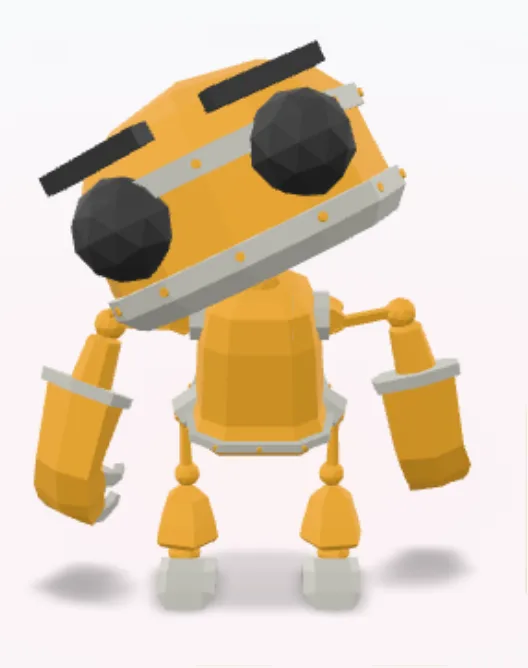
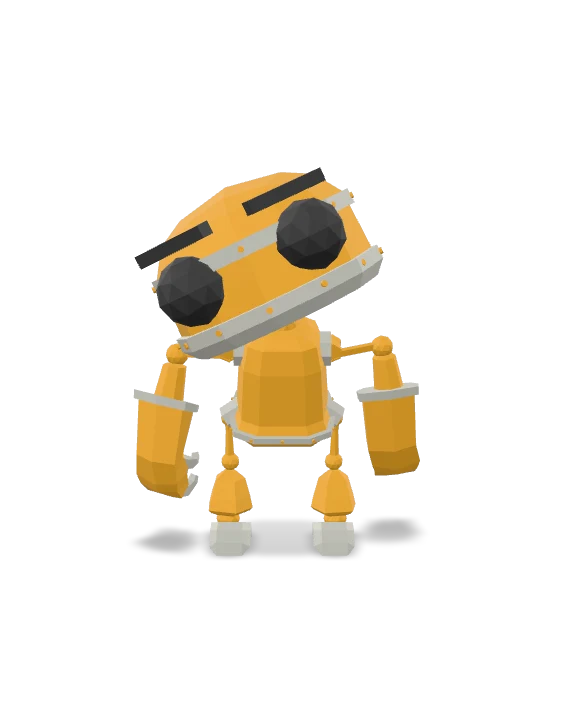
3D-модель: «Масштаб» в свойствах — отодвинуть камеру, чтобы движение не уходило за рамку
- Поле `zoom` у модели (0,3–3, как «Масштаб» у картинки): 1 — кадр, подобранный библиотекой, 0,8 — камера
  на четверть дальше; умножается на расстояние из ракурса. При показе модель по-прежнему крутят и приближают
- Без вращения мышью предел камеры — сам исходный вид: иначе model-viewer не пустил бы её дальше подобранного
- Расчёт камеры — чистая функция (model-orbit.ts) с unit-тестом
- «Свойства»: «Масштаб» модели — среди её полей; в свёрнутый «Кадр картинки» уходят только блоки с «Видимой частью»
- memes: три робота с масштабом 0,62 — «Танец» и взмах руки целиком в рамке, все одного размера;
  заставки перерисованы в новом кадре на прозрачном фоне
- README, COMPONENTS.md, справка формата

Claude-Session: https://claude.ai/code/session_01GftsZaKVp4igw2ytT8Njke

diff --git a/src/components/media/model.ts b/src/components/media/model.ts
@@ -3,6 +3,7 @@ import { esc, styleAttr, t } from '../../engine/html';
 import { ea } from '../../engine/marks';
 import type { Block } from '../../types';
 import { icon } from '../icons';
+import { modelCamera } from './model-orbit';
 import './media.css';
 
 interface ModelProps extends Block {
@@ -18,6 +19,8 @@ interface ModelProps extends Block {
   exposure?: number;
   /** Начальный ракурс: поворот и наклон камеры, например "-30deg 70deg" (как camera-orbit у model-viewer) */
   orbit?: string;
+  /** Масштаб в рамке, 0.3–3 (по умолчанию 1): меньше — камера дальше, модель мельче, движения не уходят за рамку */
+  zoom?: number;
   /** Анимация из файла модели, например Dance (true — первая по списку); играет по кругу */
   animation?: string | boolean;
   caption?: string;
@@ -80,7 +83,8 @@ defineBlock<ModelProps>('model', {
     const key = `${ctx.slide.dataset.index ?? ''}:${el.closest('[data-block]')?.getAttribute('data-block') ?? ''}`;
     let mv: HTMLElement | null = null;
     let timer = 0;
-    const orbit0 = typeof p.orbit === 'string' && /^-?\d+(\.\d+)?deg\s+-?\d+(\.\d+)?deg(\s+(auto|\d+(\.\d+)?%))?$/.test(p.orbit.trim()) ? p.orbit.trim() : 'auto auto auto';
+    // Ракурс и масштаб в рамке: расстояние — % от подобранного библиотекой (масштаб 0,8 — на четверть дальше)
+    const { orbit: orbit0, dist } = modelCamera(p.orbit, p.zoom);
     // Кнопка «Исходный вид»: появляется, когда модель повернули или приблизили
     let home: HTMLButtonElement | null = null;
     let flip = false;
@@ -125,16 +129,15 @@ defineBlock<ModelProps>('model', {
         const controls = p.controls !== false && !editing();
         if (controls) m.setAttribute('camera-controls', '');
         // Приблизить и отдалить — колесом или щипком. Без предела model-viewer не отпускает камеру
-        // дальше исходного вида: разрешаем примерно в 2,5 раза дальше (и дальше заданного в orbit)
-        if (!controls) m.setAttribute('disable-zoom', '');
-        else {
-          const r = Number(/(\d+(?:\.\d+)?)%$/.exec(orbit0)?.[1]) || 100;
-          m.setAttribute('max-camera-orbit', `auto auto ${Math.round(Math.max(250, r * 1.5))}%`);
-        }
+        // дальше исходного вида: разрешаем примерно в 2,5 раза дальше (и дальше заданного ракурсом и масштабом).
+        // Без вращения мышью предел — сам исходный вид: иначе камеру не пустило бы дальше подобранного
+        if (!controls) {
+          m.setAttribute('disable-zoom', '');
+          if (dist > 100) m.setAttribute('max-camera-orbit', `auto auto ${dist}%`);
+        } else m.setAttribute('max-camera-orbit', `auto auto ${Math.round(Math.max(250, dist * 1.5))}%`);
         m.setAttribute('interaction-prompt', 'none');
         m.setAttribute('shadow-intensity', '0.8');
         m.setAttribute('environment-image', 'neutral');
-        // Ракурс: только углы в градусах (и необязательное расстояние) — без произвольных строк
         if (orbit0 !== 'auto auto auto') m.setAttribute('camera-orbit', orbit0);
         const ex = Number(p.exposure);
         if (ex >= 0.2 && ex <= 3) m.setAttribute('exposure', String(ex));

diff --git a/tests/unit/model-camera.spec.ts b/tests/unit/model-camera.spec.ts
@@ -1,0 +1,26 @@
+// 3D-модель: начальная камера из ракурса и масштаба в рамке («Свойства» → «Масштаб»)
+import { expect, test } from '@playwright/test';
+import { modelCamera } from '../../src/components/media/model-orbit';
+
+test('без ракурса и масштаба — камера, подобранная библиотекой', () => {
+  expect(modelCamera(undefined, undefined)).toEqual({ orbit: 'auto auto auto', dist: 100 });
+  expect(modelCamera('-12deg 80deg', 1)).toEqual({ orbit: '-12deg 80deg auto', dist: 100 });
+});
+
+test('масштаб меньше 1 отодвигает камеру: 0,8 — на четверть дальше, 0,5 — вдвое', () => {
+  expect(modelCamera('-12deg 80deg', 0.8)).toEqual({ orbit: '-12deg 80deg 125%', dist: 125 });
+  expect(modelCamera(undefined, 0.5)).toEqual({ orbit: 'auto auto 200%', dist: 200 });
+  // Больше 1 — ближе
+  expect(modelCamera('0deg 75deg', 2).dist).toBe(50);
+});
+
+test('масштаб умножается на расстояние из ракурса', () => {
+  expect(modelCamera('10deg 70deg 150%', 0.6)).toEqual({ orbit: '10deg 70deg 250%', dist: 250 });
+});
+
+test('непонятный ракурс и масштаб вне 0,3–3 не применяются', () => {
+  expect(modelCamera('0deg 70deg; script', 0.8)).toEqual({ orbit: 'auto auto 125%', dist: 125 });
+  expect(modelCamera('-12deg 80deg', 0.1).dist).toBe(100);
+  expect(modelCamera('-12deg 80deg', 'abc').dist).toBe(100);
+  expect(modelCamera('-12deg 80deg', 9).dist).toBe(100);
+});

diff --git a/src/components/media/model-orbit.ts b/src/components/media/model-orbit.ts
@@ -1,0 +1,22 @@
+/**
+ * Начальная камера 3D-модели из данных: ракурс (`orbit`: поворот и наклон в градусах, третьим — расстояние в %)
+ * и масштаб в рамке (`zoom`, как у картинки: 1 — как есть, 0,8 — модель дальше и мельче). Отдельно от блока —
+ * чистая функция, без библиотеки 3D: её проверяют unit-тесты
+ */
+export interface ModelCamera {
+  /** Значение camera-orbit у model-viewer: «auto» там, где ничего не задано */
+  orbit: string;
+  /** Расстояние камеры, % от подобранного библиотекой (100 — как подобрано) */
+  dist: number;
+}
+
+const ORBIT = /^-?\d+(\.\d+)?deg\s+-?\d+(\.\d+)?deg(\s+(auto|\d+(\.\d+)?%))?$/;
+
+export function modelCamera(orbit: unknown, zoom: unknown): ModelCamera {
+  // Только углы в градусах и расстояние в процентах — без произвольных строк
+  const parts = typeof orbit === 'string' && ORBIT.test(orbit.trim()) ? orbit.trim().split(/\s+/) : [];
+  const z = Number(zoom);
+  const base = Number(/^(\d+(?:\.\d+)?)%$/.exec(parts[2] ?? '')?.[1]) || 100;
+  const dist = Math.round(base / (z >= 0.3 && z <= 3 ? z : 1));
+  return { orbit: `${parts[0] ?? 'auto'} ${parts[1] ?? 'auto'} ${dist === 100 ? 'auto' : `${dist}%`}`, dist };
+}

diff --git a/src/studio/inspector.ts b/src/studio/inspector.ts
@@ -342,8 +342,9 @@ export class Inspector {
     const ribbon = ELSEWHERE[sel.type]?.tab ? ELSEWHERE[sel.type] : null;
     const skip = skipped(sel.type, !!sel.free);
     // Кадр картинки (обрезка, увеличение) нужен реже: отдельный свёрнутый раздел — точно, числами;
-    // мышью — «Кадр» на панели над картинкой. У видео кадр — на вкладке «Видео»
-    const FRAME = schema?.fields.some((f) => f.k === 'zoom') ? ['fit', 'zoom', 'position'] : [];
+    // мышью — «Кадр» на панели над картинкой. У видео кадр — на вкладке «Видео». Узнаётся по «Видимой части»:
+    // «Масштаб» есть и у 3D-модели, но это расстояние камеры — он среди её полей
+    const FRAME = schema?.fields.some((f) => f.type === 'framepos') ? ['fit', 'zoom', 'position'] : [];
     const b = getAt(deck, sel.block) as Block | undefined;
     const all = (schema?.fields ?? []).filter((f) => !skip.has(f.k) && !(f.type === 'rows' && f.hideEmpty && !(Array.isArray(b?.[f.k]) && (b[f.k] as unknown[]).length)));
     const own = all.filter((f) => !FRAME.includes(f.k));

diff --git a/src/studio/schema.ts b/src/studio/schema.ts
@@ -743,6 +743,8 @@ export const BLOCKS: Record<string, Schema> = {
       { k: 'controls', label: 'Вращать мышью при показе', type: 'bool', default: true },
       { k: 'exposure', label: 'Яркость', type: 'number', min: 0.2, max: 3, step: 0.1, placeholder: '1' },
       { k: 'orbit', label: 'Ракурс', type: 'text', placeholder: '0deg 75deg', hint: 'Поворот и наклон камеры в градусах' },
+      // Как «Масштаб» у картинки: 1 — как есть
+      { k: 'zoom', label: 'Масштаб', type: 'number', min: 0.3, max: 3, step: 0.05, placeholder: '1', hint: '1 — как подобрано; 0,8 — модель дальше и мельче: движения не выходят за рамку' },
       { k: 'animation', label: 'Анимация', type: 'text', placeholder: 'нет', hint: 'Имя анимации из файла модели, например Dance' },
       { k: 'caption', label: 'Подпись', type: 'text' },
     ],

diff --git a/README.md b/README.md
@@ -211,6 +211,7 @@ node scripts/audit.mjs --only idle,input --cpu 4   # выборочно и на 
 | Оформление текста | Панель над текстом: шрифт, размер, цвет, жирный, курсив, подчёркнутый (Ctrl+B/I/U), ссылка (Ctrl+K), список, выравнивание, сброс. Список — как в Word: маркер ставится и снимается у строк под курсором или в выделении, остальные строки не трогаются; вид маркера (точка, квадрат, тире, галочка, стрелка, нумерация 1. и 1), буквы, римские I. и i., свой символ или картинка) — тоже у этих строк, у каждой может быть свой, у каждого вида нумерации свой счёт; Enter в пункте — новый пункт, Enter на пустом пункте — конец списка. Без правки текста (надпись выделена целиком) — у всех строк. Цвет, размер и шрифт с выделением — только выделенным словам, как в PowerPoint: остальное их оформление остаётся (перекрасили крупный заголовок карточки — он остался крупным), в поле размера и на кнопке шрифта — значения выделенного. Выделен весь текст (Ctrl+A) — значение всему тексту, и частям со своим тоже. Без выделения команда применяется ко всему полю. Без правки текста — к выделенным объектам, как в PowerPoint: один, несколько или все на слайде (Ctrl+A) — шрифт, размер, цвет, начертание и выравнивание ложатся на весь их текст сразу (надписи, текст фигур, карточки, пункты шкалы, ячейки); цвет, шрифт и размер числом — и частям со своим, «Больше / меньше» — каждому от его размера, пропорционально. Рядом с цветом — «Эффекты текста»: восемь готовых стилей и тень, свечение, контур, плашка букв (те же варианты, что на вкладках «Надпись» и «Фигура»); в правке — всему полю, без правки — тексту выделенных объектов. Ручка справа от текста — ширина поля (где переносятся строки), двойной клик по ней — как было. Список шрифтов — с поиском (стрелки и Enter): после шрифтов темы и презентации — шрифты компьютера; выбранный копируется в презентацию (обычный, жирный, курсив) и на другом компьютере выглядит так же. Рядом — начертание (светлый, полужирный и т. д.) из тех, что есть у шрифта: выбранное тоже копируется. В браузере (Chrome, Edge) список открывается пунктом «Показать шрифты компьютера…» с разрешением; шрифт, который автор не разрешил встраивать (флаг в файле шрифта: запрет или «только просмотр и печать» — презентацию ведь потом правят, как и в PowerPoint), остаётся по имени и виден там, где установлен. Перетащенный файл шрифта с таким флагом не добавляется (студия скажет почему) |
 | Картинка, логотип, фото на плитке | Клик — выделение и панель картинки: заменить, «Целиком» (без обрезки) или «Заполнить», масштаб 30–300 %, сдвиг (тяните картинку мышью), × — убрать. Двойной клик или перетаскивание файла — замена. Убранное фото на плитке возвращает исходную иллюстрацию, иначе остаётся пустое место |
 | Любой блок (карточка, плитка, график, схема…) | Клик по блоку (не по тексту) — выделение и панель: «Выше» — внешний блок, «Свободно» — открепить от раскладки, корзина или Delete — удалить |
+| 3D-модель | «Свойства»: ракурс, яркость, анимация из файла и «Масштаб» — 0,8 отодвигает модель, чтобы движение (танец, взмах рук) не уходило за рамку; при показе её по-прежнему можно крутить и приближать. «Снимок текущего вида» — для печати, миниатюр и PPTX |
 | Свободные объекты | «Вставить» → текст или картинка появляется поверх слайда, на любом слайде. Объект тянется за любое место сразу, без предварительного клика; выделенный блок раскладки, если его потянуть, сам становится свободным. Тяните объект мышью, за 8 ручек — меняйте размер (картинки за угол — пропорционально, Shift — наоборот). Объект не сжать меньше 20 px, объект с текстом — ниже высоты, на которой текст виден целиком (то же — в полях «Ширина» и «Высота»); у маленькой рамки остаются только угловые ручки. Кружок над рамкой — поворот на любой угол, как в PowerPoint (Shift — шагами по 15°, возле 0/90/180° прилипает). Края прилипают к краям и центру слайда и к другим объектам, а сам объект — к равным промежуткам: его промежуток до соседа становится таким же, как между другими объектами того же ряда или столбца, или он встаёт ровно посередине между двумя (во всех равных промежутках — стрелки, как в PowerPoint). Alt — без прилипания. Стрелки — сдвиг на 1 px, Shift+стрелки — на 10 px, Ctrl+D — дубликат, кнопки — слой выше или ниже, «В раскладку» — вернуть в поток слайда. Первый клик выделяет объект, второй — правит текст. У свободной картинки кадр сдвигается в режиме «Кадр» (кнопка на панели над картинкой или на вкладке «Рисунок», Esc — готово) или с Alt |
 | Ссылка и QR-код | Наведите на ссылку или кнопку → «Изменить ссылку». QR-код перестроится сам |
 | Порядок слайдов | «Слайды» или O: перетащите миниатюру. Кнопки на миниатюре — дублировать и удалить. С клавиатуры: Alt + ← →, Delete. Правый щелчок по миниатюре — меню этого слайда (копировать, вставить после него, дублировать, переместить, скрыть, удалить…) без перехода на него: пока меню открыто, миниатюра обведена пунктиром |

diff --git a/docs/skills/slideria-deck/SKILL.md b/docs/skills/slideria-deck/SKILL.md
@@ -60,7 +60,7 @@ slides:
 | Таблица | `table` (`header`, `rows`, `variant: stripes` или `heat` — тепловая карта, `highlight`) |
 | Схемы из пунктов | `items: [{title, text}]` у `cycle`, `funnel`, `pyramid`, `numbers`, `compare`, `matrix`, `icons`, `stats`, `faq`, `timeline` (`date`, `done`), `roadmap` (`text` — срок, `done`), `ladder`, `orbit` (`center` или `logo: true`), `venn` (`center` — общее в пересечении, `variant: filled`), `nested` (первый — самый большой круг, `text` — пояснение справа, `variant: target` — мишень), `gears`, `pillars` (`center` — крыша), `layers`, `diamonds`, `arc` (`center` — цель), `mindmap` (`center` — главная мысль), `iceberg` (первый пункт — над водой); `pipeline` — `steps: [{title, sub}]`, `layout: column` (столбцом — для длинных подписей) или `arrows` (стрелками), без него — в ряд; `hub` — итоги вокруг логотипа |
 | Формула | `math` (`x^2 + y^2 = r^2` или LaTeX), график функции — `plot` |
-| Медиа | `image` (`src`, `caption`; `images` — ещё кадры в той же рамке, листаются на слайде, `flip: click` — по «Далее»), `video` (`src` — файл или ссылка YouTube), `model` (`src` — GLB) |
+| Медиа | `image` (`src`, `caption`; `images` — ещё кадры в той же рамке, листаются на слайде, `flip: click` — по «Далее»), `video` (`src` — файл или ссылка YouTube), `model` (`src` — GLB, `animation` — анимация из файла, `zoom: 0.8` — модель дальше, чтобы движение не уходило за рамку) |
 | Код | `sandbox` (`code`, `theme: true`, `console: true`) — правится при показе |
 
 ## Холст и свободные объекты

diff --git a/docs/COMPONENTS.md b/docs/COMPONENTS.md
@@ -1070,6 +1070,8 @@ poster: ./assets/device.png  # снимок: печать, PDF, миниатюр
 rotate: true                 # медленно вращается сама (по умолчанию да)
 controls: true               # вращать мышью при показе (по умолчанию да)
 exposure: 1                  # яркость
+orbit: -12deg 80deg          # начальный ракурс: поворот и наклон камеры (третьим — расстояние, 120%)
+zoom: 0.8                    # масштаб в рамке, 0.3–3: меньше — модель дальше, движения не уходят за рамку
 animation: Dance             # анимация из файла модели, играет по кругу (true — первая по списку)
 caption: Подпись
 ```
